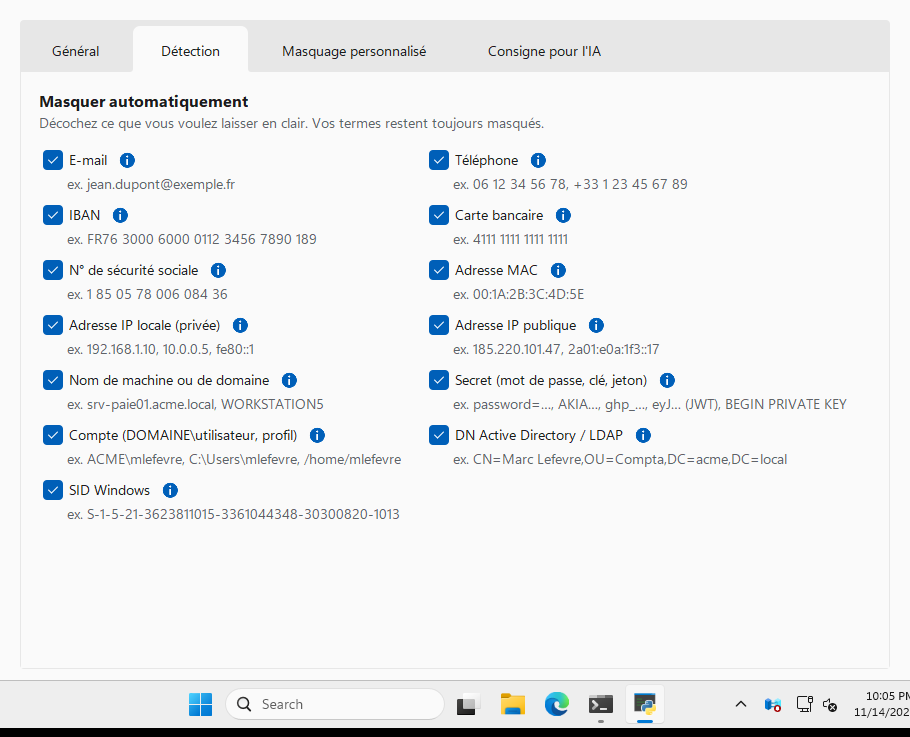
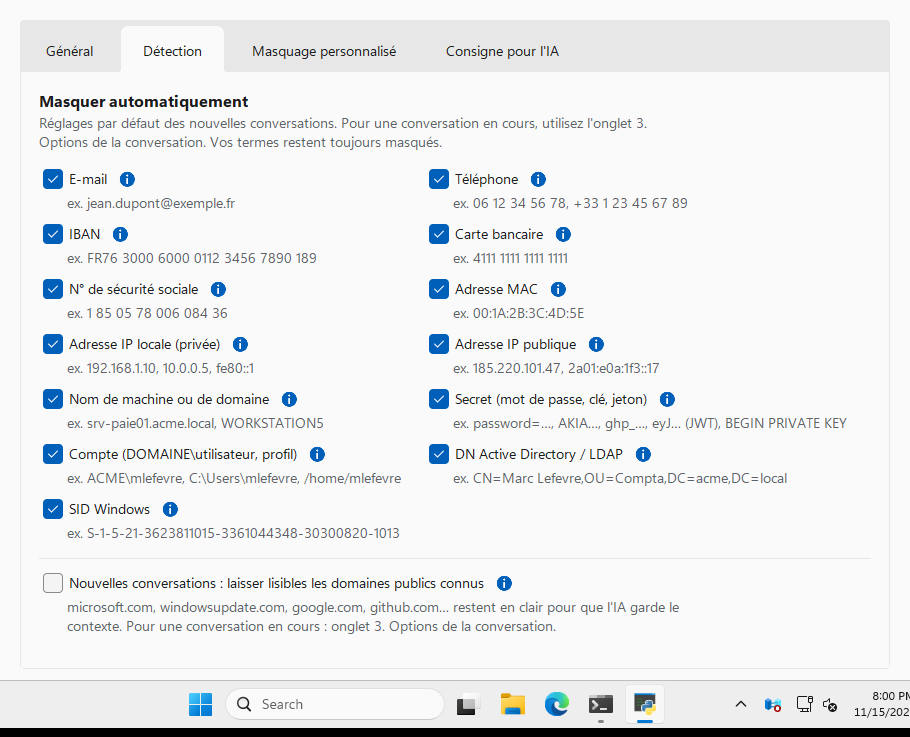
Captures du README à jour (onglets 3 et 4), notes v1.16.1
Claude-Session: https://claude.ai/code/session_01HRDvkQPwDqhkpwtVeyn17T

diff --git a/docs/release-notes.md b/docs/release-notes.md
@@ -10,6 +10,8 @@ Pour mettre à jour, remplacez simplement l'ancien exe : vos réglages et vos co
 
 ### Nouveautés de cette version
 
+- **v1.16.1** : **titres d'onglets entiers** : à la taille minimale de la fenêtre, les quatre titres étaient coupés (« 3. Options de la conversatio »). L'onglet 2 s'appelle maintenant « 2. Restaurer », et dans l'onglet 3 les types de détection s'affichent sous leur nom court (« Secret », « Compte »), le nom complet restant dans l'info-bulle. Captures du README mises à jour, dont l'onglet 3.
+
 - **v1.16.0** : **journaux de connexion Entra ID (Azure AD)**, testés sur 43 fichiers réels ou d'exemple (exports du portail, Sentinel / Log Analytics, API Graph, journal d'audit unifié Microsoft 365, attaques par pulvérisation de mots de passe) : 1 100 valeurs sensibles, aucune en clair.
   - **nom affiché des utilisateurs masqué** (« Jane Doe ») : `userDisplayName`, `Identity` (Sentinel), `initiatedBy.user` (journal d'audit), y compris dans du JSON rangé dans une chaîne ou dans une cellule CSV. Le nom est ensuite masqué partout où il réapparaît dans le texte ;
   - **exports CSV et tableaux** (portail Entra ID, Log Analytics, Sentinel, résultats KQL copiés) : les colonnes User, Username, UserDisplayName, Sign-in identifier, Device name… sont masquées, avec ou sans guillemets, séparées par des virgules, points-virgules ou tabulations ;
@@ -27,7 +29,7 @@ Pour mettre à jour, remplacez simplement l'ancien exe : vos réglages et vos co
   - **Rétablir les réglages par défaut** remet la conversation sur Options → Détection ; une ligne indique si la conversation a des réglages propres ;
   - le **masquage personnalisé de la conversation** (termes et jetons parlants) passe dans cet onglet ; **« 4. Éléments masqués »** occupe désormais toute la largeur ;
   - le **rapport** indique les types détectés dans la conversation, et non plus les réglages généraux ;
-  - onglets renommés plus courts (« 1. Anonymiser », « 2. Restaurer la réponse ») pour que les quatre titres tiennent en entier, même fenêtre réduite.
+  - onglets renommés plus courts (« 1. Anonymiser », « 2. Restaurer la réponse »).
 
 - **v1.14.0** : **rapport amélioré** (Exporter le rapport…) :
   - **synthèse en tête** : nombre d'éléments masqués, d'envois, de valeurs parties en clair par erreur et laissées en clair volontairement (en rouge s'il y a une fuite), puis le nombre d'éléments par type ;

diff --git a/README.md b/README.md
@@ -26,6 +26,8 @@ Dans les deux onglets, **passez la souris sur un élément surligné** : une bul
 
 **Options de la conversation** (onglet 3) : les types détectés (noms, e-mails, IP publiques…) et les domaines publics lisibles se règlent pour chaque conversation. Décochez par exemple **IP publique** dans une conversation sur un incident réseau : les autres conversations ne changent pas. Une nouvelle conversation reprend les réglages de Options → Détection, qui servent de réglages par défaut ; le bouton **Rétablir les réglages par défaut** les réapplique à la conversation en cours. Cet onglet contient aussi le masquage personnalisé de la conversation.
 
+![Onglet Options de la conversation](docs/clair-conversation.png)
+
 **Domaines publics connus** (`microsoft.com`, `windowsupdate.com`, `google.com`, `github.com`…) : vous pouvez les laisser lisibles pour que l'IA garde le contexte. Le réglage par défaut des nouvelles conversations est dans Options → Détection ; pour la conversation en cours, cochez la case dans l'onglet **3. Options de la conversation**. Seuls les domaines dont tous les sous-domaines appartiennent à l'éditeur sont concernés : ceux qui portent le nom d'un client (`acme.sharepoint.com`, `acme.onmicrosoft.com`, `x.blob.core.windows.net`…) et vos domaines internes restent masqués.
 
 Pour **rechercher** dans le texte original : **Ctrl+F** ou la loupe à côté de « Coller ». Toutes les occurrences sont surlignées en bleu, la courante en orange ; **Entrée** passe à la suivante, **Maj+Entrée** à la précédente, **Échap** ferme la recherche. La zone de droite suit, pour voir la version anonymisée.
